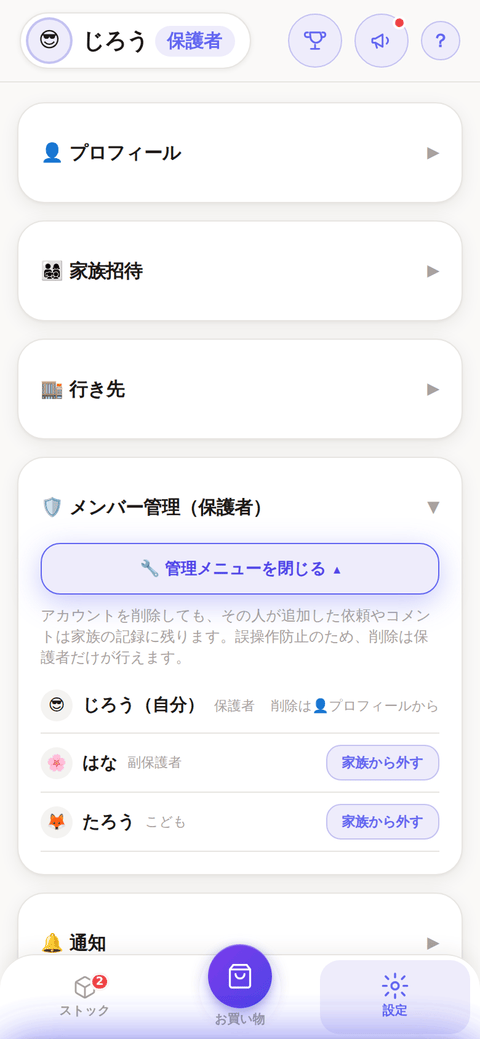
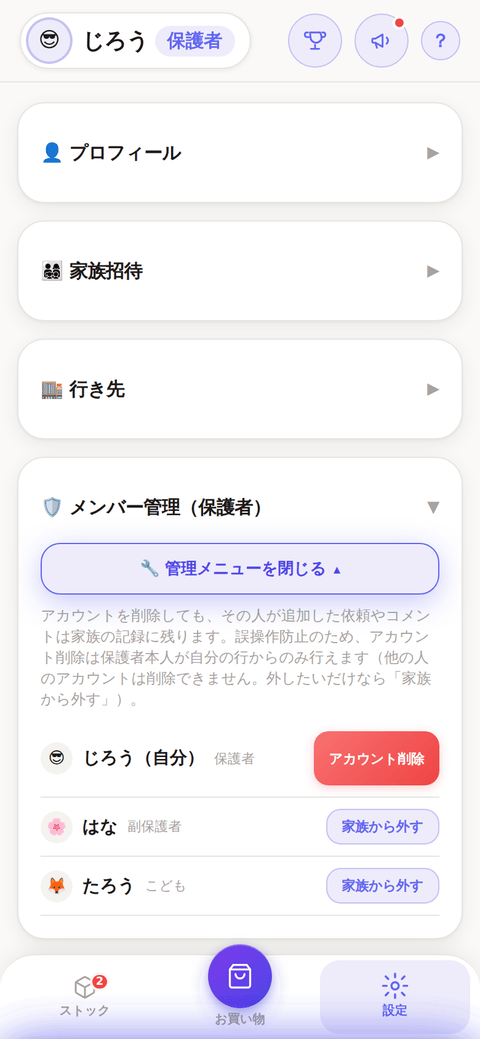
アカウント削除の入口をプロフィールカードからメンバー管理へ統合（保護者のみに変更）
前回（PR #123）はメンバー管理の自分の行にあった重複ボタンをプロフィール
カード側に一本化したが、方針を再検討し逆方向に変更する。自分のアカウント
削除は🛡メンバー管理カードの自分の行にのみ置き、プロフィールカードから
は削除する。

この変更により、メンバー管理カード自体が保護者ロールにしか表示されない
ため、副保護者・こどもはアプリ内で自分のアカウントを完全削除する手段が
なくなる（退会したい場合は保護者に「家族から外して」もらう）。この
トレードオフは把握した上での選択。

- app-core.js: renderMemberAdmin() の自分の行に「アカウント削除」ボタン
  （data-admin-delete、タップ領域44px確保）を復活。プロフィールカードの
  self-delete-toggle 関連コードを削除
- app.html: プロフィールカードから🗑アカウント削除メニューを削除。
  メンバー管理カードの説明文を「保護者本人が自分の行からのみ」に更新
- app-init.js: 削除したボタンのイベント配線を除去
- tests: perf-test / self-delete-confirm-test / settings-accordion-test を
  メンバー管理経由のフローに更新
- docs/features.md: 🛡メンバー管理と👤自分のアカウント削除の2節を統合、
  役割別できることの表を更新（削除は保護者のみに）
- guide.html・privacy.html: 削除手順の説明を更新。副保護者・こどもは
  アプリ内に削除手段が無い旨と、お問い合わせフォームでの代替経路を明記
- docs/screenshots: メンバー管理・設定関連のスクショを撮り直し
- sw.js: CACHE を v149 に更新

Claude-Session: https://claude.ai/code/session_013Sh1XBCpeNBzayjahQXFzf

diff --git a/app-core.js b/app-core.js
@@ -291,11 +291,12 @@ async function signOut() {
 // ===== メンバー管理（保護者専用） =====
 // 他のメンバーの管理（役割変更・家族から外す）は保護者専用。「家族から外す」は
 // メンバー表から締め出すだけで、本人のログインアカウントは残る（removeMemberFromFamily）。
-// ログインアカウントそのものの完全削除は、他人の分は誰にも許可していない。本人が
-// 自分自身を削除する場合のみ可能（設定タブのプロフィールカードから。役割を問わず本人が行える。
-// 下の adminDeleteAccount 参照）。誤操作防止のためどちらもトグルの内側に隠す。
+// ログインアカウントそのものの完全削除も、自分の行からここでのみ行える（保護者本人に限る。
+// 副保護者・こどもはこのカード自体が表示されないため、自分のアカウントを完全削除する手段は無く、
+// 退会したい場合は保護者に「家族から外して」もらう）。呼び出し口をここに一本化している
+// （以前はプロフィールカードにも同じ削除メニューが重複して出ていた）。
 // 実際の削除は Cloud Functions の deleteMemberAccount（Admin SDK）で行い、
-// 呼び出し元と削除対象が本人同士であることをサーバー側でも検証する。
+// 呼び出し元と削除対象が本人同士であることをサーバー側でも検証する（下の adminDeleteAccount 参照）。
 // 依頼・コメントは家族の記録として残る。
 
 // 誤操作防止: 管理メニュー（アカウント削除等）はトグルで閉じておき、開いた時だけ操作できる
@@ -310,23 +311,6 @@ function updateMemberAdminToggle() {
   btn.innerHTML = memberAdminOpen
     ? '🔧 管理メニューを閉じる <span class="toggle-chevron">▴</span>'
     : '🔧 管理メニューを開く <span class="toggle-chevron">▾</span>';
-}
-
-// 自分のアカウント削除（役割を問わず本人ならいつでも可）。誤操作防止のため
-// こちらもトグルで隠す。実際の削除処理は adminDeleteAccount() を共用する。
-// 呼び出し口はここ（プロフィールカード）だけに一本化している
-// （以前はメンバー管理の自分の行にも同じ削除ボタンが重複して出ていた）。
-let selfDeleteOpen = false;
-function updateSelfDeleteToggle() {
-  const body = $("self-delete-body");
-  const btn = $("btn-self-delete-toggle");
-  if (!body || !btn) return;
-  body.style.display = selfDeleteOpen ? "" : "none";
-  btn.classList.toggle("open", selfDeleteOpen);
-  btn.setAttribute("aria-expanded", String(selfDeleteOpen));
-  btn.innerHTML = selfDeleteOpen
-    ? '🗑 アカウント削除メニューを閉じる <span class="toggle-chevron">▴</span>'
-    : '🗑 アカウント削除メニューを開く <span class="toggle-chevron">▾</span>';
 }
 
 // 設定タブのメンバー管理カードを描画（保護者にだけ表示）
@@ -350,11 +334,14 @@ function renderMemberAdmin() {
         <span class="muted" style="font-size:11px;">${ROLE_LABEL[m.memberRole] || "未設定"}</span>
       </span>
       <span style="display:flex;gap:6px;flex-shrink:0;">
-        ${uid !== state.uid ? `<button class="ghost tiny-btn" style="font-size:11px;" data-admin-remove="${uid}" data-name="${escapeHtml(m.name || "メンバー")}">家族から外す</button>` : `<span class="muted" style="font-size:11px;">削除は👤プロフィールから</span>`}
+        ${uid !== state.uid ? `<button class="ghost tiny-btn" style="font-size:11px;" data-admin-remove="${uid}" data-name="${escapeHtml(m.name || "メンバー")}">家族から外す</button>` : `<button class="danger tiny-btn" style="font-size:11px;min-height:44px;" data-admin-delete="${uid}">アカウント削除</button>`}
       </span>
     </div>`).join("");
   $("member-admin-list").querySelectorAll("[data-admin-remove]").forEach((btn) => {
     btn.addEventListener("click", () => removeMemberFromFamily(btn.dataset.adminRemove, btn.dataset.name));
+  });
+  $("member-admin-list").querySelectorAll("[data-admin-delete]").forEach((btn) => {
+    btn.addEventListener("click", () => adminDeleteAccount());
   });
   updateMemberAdminToggle();
 }

diff --git a/app.html b/app.html
@@ -311,16 +311,6 @@
               <div id="set-emoji-picker" class="emoji-picker"></div>
               <button id="btn-update-profile">更新</button>
             </div>
-            <div style="margin-top:16px;border-top:1px solid var(--border);padding-top:14px;">
-              <button id="btn-self-delete-toggle" class="section-toggle-btn" aria-expanded="false">🗑 アカウント削除メニューを開く <span class="toggle-chevron">▾</span></button>
-              <div id="self-delete-body" style="display:none;">
-                <p class="muted" style="font-size:12px;margin-top:10px;">
-                  アカウントを削除すると、プロフィールとログイン情報が削除されます。
-                  あなたが追加した依頼やコメントは家族の記録として残ります。この操作は取り消せません。
-                </p>
-                <button id="btn-self-delete" class="danger" style="width:100%;margin-top:8px;min-height:44px;">🗑 自分のアカウントを削除する</button>
-              </div>
-            </div>
           </div>
         </div>
         <div class="card settings-acc closed" data-acc="family">
@@ -364,7 +354,7 @@
           <div class="settings-acc-body">
             <button id="btn-member-admin-toggle" class="section-toggle-btn" aria-expanded="false">🔧 管理メニューを開く <span class="toggle-chevron">▾</span></button>
             <div id="member-admin-body" style="display:none;">
-              <p class="muted" style="font-size:12px;">アカウントを削除しても、その人が追加した依頼やコメントは家族の記録に残ります。誤操作防止のため、削除は保護者だけが行えます。</p>
+              <p class="muted" style="font-size:12px;">アカウントを削除しても、その人が追加した依頼やコメントは家族の記録に残ります。誤操作防止のため、アカウント削除は保護者本人が自分の行からのみ行えます（他の人のアカウントは削除できません。外したいだけなら「家族から外す」）。</p>
               <div id="member-admin-list"></div>
             </div>
           </div>

diff --git a/guide.html b/guide.html
@@ -276,10 +276,10 @@
     <h2 id="settings">⚙ 設定・更新・ダークモード</h2>
     <table>
       <tr><th>項目</th><th>内容</th></tr>
-      <tr><td>👤 プロフィール</td><td>名前・絵文字アイコン（60種。😀表情/🐾どうぶつ/🧑ひと/🎈のりもの・すきなもの の4つのボタンタブで切り替えて選べます）。いちばん下の「🗑 アカウント削除メニュー」から、自分のアカウントを削除できます（確認のため「delete」と入力）</td></tr>
+      <tr><td>👤 プロフィール</td><td>名前・絵文字アイコン（60種。😀表情/🐾どうぶつ/🧑ひと/🎈のりもの・すきなもの の4つのボタンタブで切り替えて選べます）</td></tr>
       <tr><td>👨👩👧👦 家族招待</td><td>招待コード・メンバー一覧</td></tr>
       <tr><td>🏬 行き先</td><td>スーパー・薬局などよく行くお店を登録（任意。→ <a href="#destinations">🏬行き先</a>）</td></tr>
-      <tr><td>🛡 メンバー管理</td><td>保護者のみ。メンバーの役割の変更と「家族から外す」ができます（他の人のアカウント自体は消せません）</td></tr>
+      <tr><td>🛡 メンバー管理</td><td>保護者のみ。メンバーの役割の変更と「家族から外す」ができます（他の人のアカウント自体は消せません）。保護者本人は、自分の行から「🗑 アカウント削除」で自分のアカウントを削除できます（確認のため「delete」と入力。副保護者・こどもは削除手段が無く、脱退したい場合は保護者に「家族から外して」もらいます）</td></tr>
       <tr><td>🔔 通知</td><td>サウンド／テーマ／買い物リマインドの時刻</td></tr>
       <tr><td>🔧 メンテナンス</td><td>データの再読み込み・アプリの更新・強制ログアウト</td></tr>
       <tr><td>📄 その他</td><td>このガイド・利用規約・プライバシーポリシー・<a href="./contact.html">お問い合わせ</a></td></tr>

diff --git a/privacy.html b/privacy.html
@@ -100,11 +100,12 @@
     <div class="box">
       <p style="margin:0 0 8px;"><b>アカウントの削除方法</b></p>
       <p style="margin:0;">
-        アプリ内の「設定」タブ →「👤 プロフィール」→「🗑 アカウント削除メニュー」から、
+        アプリ内の「設定」タブ →「🛡 メンバー管理」→ ご自身の行の「🗑 アカウント削除」から、
         ご自身のアカウント（プロフィール・統計・ログイン情報・通知トークン）を削除できます。
         誤操作防止のため、確認ダイアログのあとに「delete」と入力していただきます。
-        削除できるのは<b>本人のアカウントのみ</b>で、保護者であっても他のメンバーのアカウントは削除できません
+        削除できるのは<b>本人のアカウントのみ</b>で、他のメンバーのアカウントは削除できません
         （家族グループから外すことはできます。その場合、外された方のアカウント自体は残ります）。
+        なお、この操作は保護者ロールの方のみアプリ内から行えます。副保護者・こどもロールの方がご自身のアカウント削除をご希望の場合は、下記の連絡先までご連絡ください。
       </p>
       <p style="margin:8px 0 0;" class="muted">
         ※ 家族の記録として、削除した方が追加した買い物依頼やコメントはグループ内に残ります。

diff --git a/app-init.js b/app-init.js
@@ -504,11 +504,6 @@ function wireGlobalEvents() {
     memberAdminOpen = !memberAdminOpen;
     updateMemberAdminToggle();
   });
-  $("btn-self-delete-toggle").addEventListener("click", () => {
-    selfDeleteOpen = !selfDeleteOpen;
-    updateSelfDeleteToggle();
-  });
-  $("btn-self-delete").addEventListener("click", () => adminDeleteAccount());
   $("btn-copy-code").addEventListener("click", async () => {
     try {
       await navigator.clipboard.writeText($("set-invite-code").value);

diff --git a/sw.js b/sw.js
@@ -3,7 +3,7 @@
 // ・Firebase SDK（gstatic.com）や設定・アイコンなどの静的アセットはプリキャッシュし、
 //   キャッシュ優先で返す（圏外でもアプリが起動できるように）。
 // アプリ本体 = app.html、紹介ページ = index.html（ルート）、プロジェクトハブ = hub.html。
-const CACHE = "otsukai-v148";
+const CACHE = "otsukai-v149";
 
 const PRECACHE = [
   "./app.html",

diff --git a/docs/features.md b/docs/features.md
@@ -349,10 +349,10 @@ Chrome・Edge はワンタップの「ホーム画面に追加」ボタン、iOS
 
 | 項目 | 内容 |
 |---|---|
-| 👤 プロフィール | 名前・絵文字アイコン（60種。😀表情/🐾どうぶつ/🧑ひと/🎈のりもの・すきなもの の4つのボタンタブで切り替えて選べます）。**自分のアカウント削除**もここから（役割を問わず本人ならいつでも可） |
+| 👤 プロフィール | 名前・絵文字アイコン（60種。😀表情/🐾どうぶつ/🧑ひと/🎈のりもの・すきなもの の4つのボタンタブで切り替えて選べます） |
 | 👨👩👧👦 家族招待 | 招待コード（これを家族に共有して参加してもらう）・メンバー一覧 |
 | 🏬 行き先 | スーパー・薬局など、よく行くお店を家族共通で登録（任意）。[3章](#3--お買い物タブ)のおつかい・[4章](#4--よく買うもの)のよく買うもの・[8章](#8--ストックタブ)のストックで指定できるようになり、買い物リストがカテゴリの中でさらに行き先ごとにまとまります |
-| 🛡 メンバー管理 | **保護者のみ**（他のメンバーの管理） |
+| 🛡 メンバー管理 | **保護者のみ**（他のメンバーの管理・**自分のアカウント削除**もここから） |
 | 🔔 通知 | サウンド / テーマ（端末に合わせる・ライト・ダーク）/ 買い物リマインドの時刻 |
 | 🔧 メンテナンス | 更新・復旧用 |
 | ☕ 開発者を応援する | [OFUSE](https://ofuse.me/ff51ce4a) へのリンク（設定タブ末尾、ログアウトの直前） |
@@ -370,18 +370,8 @@ Chrome・Edge はワンタップの「ホーム画面に追加」ボタン、iOS
 
 誤操作を防ぐため、**「管理メニューを開く」を押したときだけ**操作できます。
 
-- **家族から外す** — その人はデータを見られなくなります（**ログインアカウントは残ります**）。他のメンバーのログインアカウントそのものを削除する手段はありません
-- 自分自身のアカウント削除は次項参照
-
-### 👤 自分のアカウント削除
-
-プロフィールカードの下部、**「アカウント削除メニューを開く」**の中にあります。
-役割（保護者・副保護者・こども）を問わず、**本人だけが**いつでも削除できます
-（他のメンバーのアカウントを保護者が代わりに削除することはできません）。
-プロフィール・統計・ログイン情報が削除されます。**追加した依頼やコメントは家族の記録として残ります**。
-自分が家族に残る唯一の保護者で、他にメンバーが残っている場合は削除できません
-（先に別のメンバーを保護者にしてください）。
-実行前に、確認のため半角英字で「delete」と入力する最終確認があります（元に戻せない操作のため）。
+- **家族から外す** — 他のメンバーの行に出ます。その人はデータを見られなくなります（**ログインアカウントは残ります**）。他のメンバーのログインアカウントそのものを削除する手段はありません
+- **アカウント削除** — 自分の行にだけ出ます。**保護者本人が、自分のアカウントのみ**いつでも削除できます（副保護者・こどもはこのカード自体が表示されないため削除手段が無く、脱退したい場合は保護者に「家族から外して」もらいます）。プロフィール・統計・ログイン情報が削除されます。**追加した依頼やコメントは家族の記録として残ります**。自分が家族に残る唯一の保護者で、他にメンバーが残っている場合は削除できません（先に別のメンバーを保護者にしてください）。実行前に、確認のため半角英字で「delete」と入力する最終確認があります（元に戻せない操作のため）
 
 ### 🔧 メンテナンス
 
@@ -443,7 +433,7 @@ Chrome・Edge はワンタップの「ホーム画面に追加」ボタン、iOS
 | ごほうびの登録・削除 | ✅ | — | — |
 | ミッションを出す | ✅ | ✅ | — |
 | 役割の変更・他のメンバーの管理 | ✅ | — | — |
-| 自分のアカウント削除 | ✅ | ✅ | ✅ |
+| 自分のアカウント削除 | ✅ | — | — |
 
 家族に入るには**招待コード**（設定タブに表示）を共有します。参加した人は最初「こども」になり、保護者が役割を変更できます。
 
